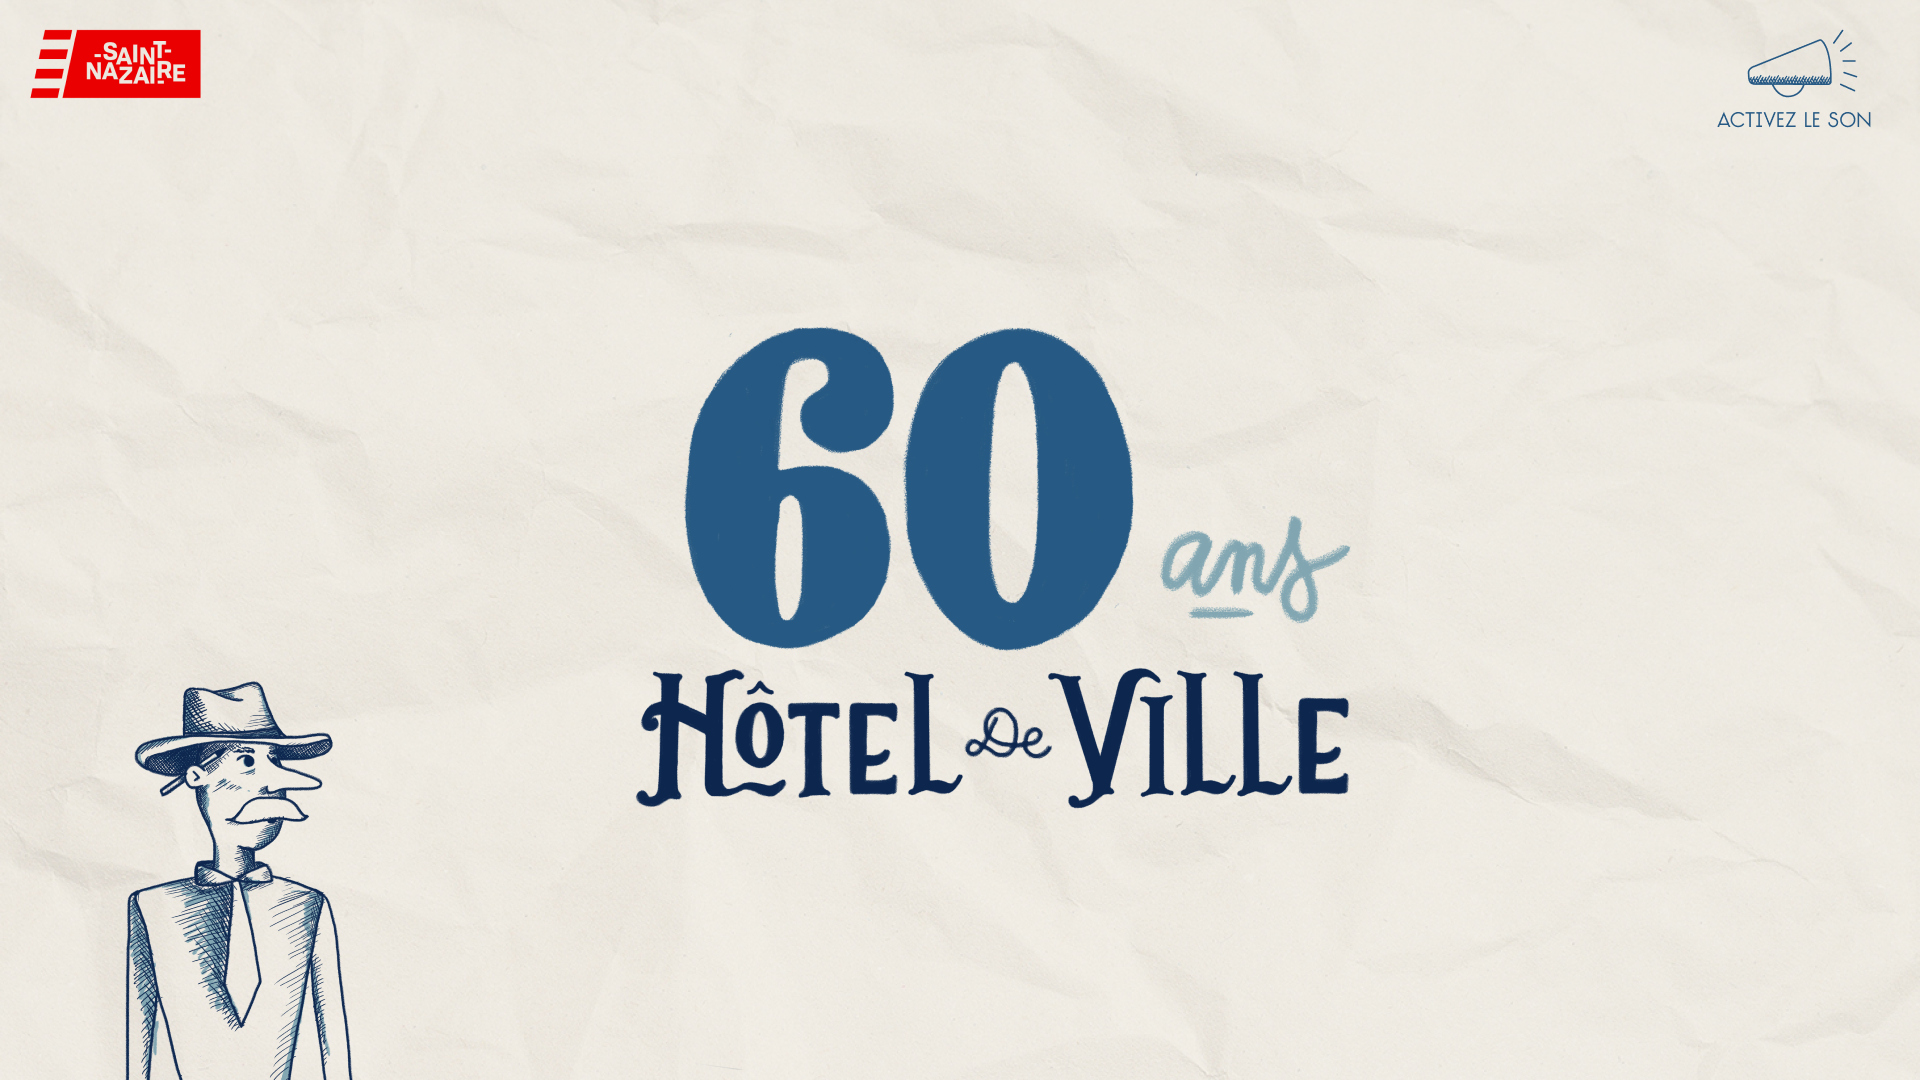
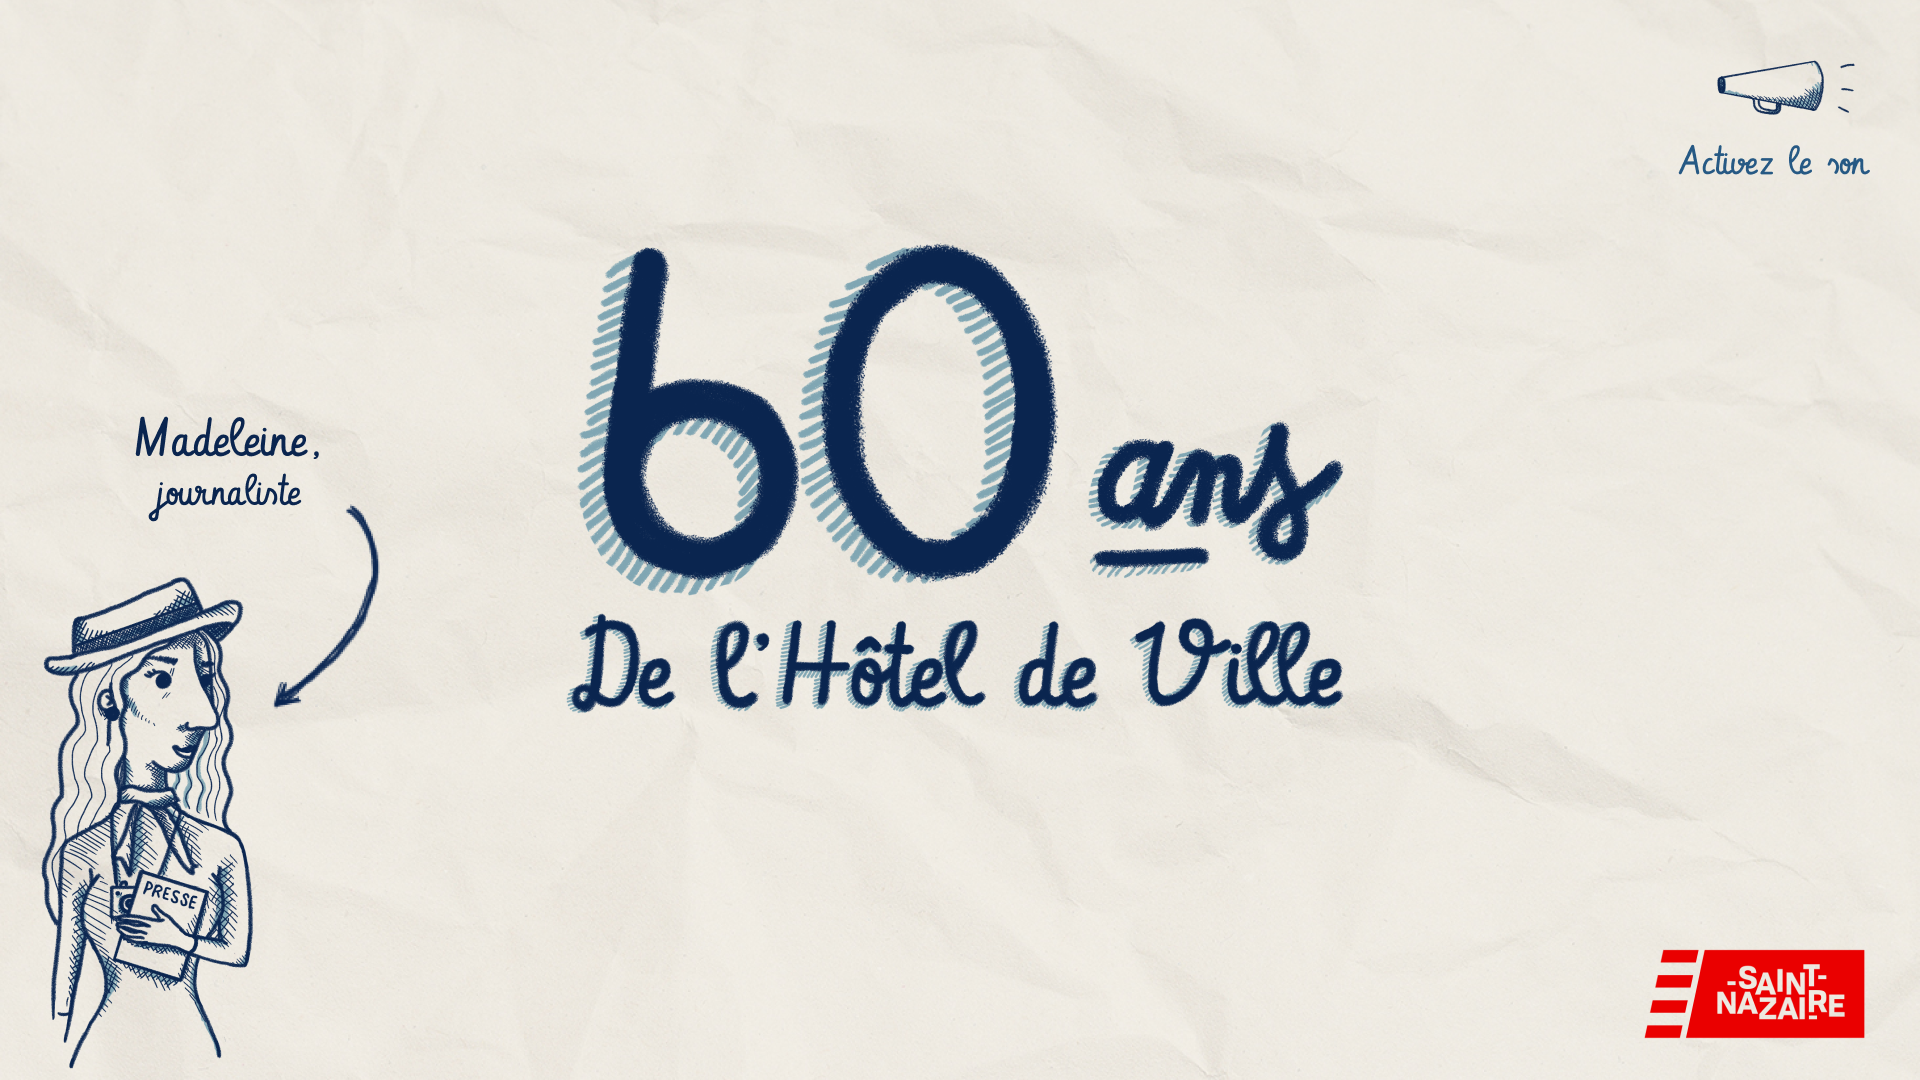
[FIX] fin ellipse et changement accueil

diff --git a/ville-saint-nazaire/public/html/slide3.html b/ville-saint-nazaire/public/html/slide3.html
@@ -8,34 +8,25 @@
 
 <form name="form">
     <label for="1905">1905</label>
-    <input id="bouton1905" type="radio"  value="1905" checked/>
     <img id="imageBouton1905" src="img/boutonActif.svg" alt="année sélectionnée" name="myRadios"  value="1905">
 
     <label for="1924">1924</label>
-    <input id="bouton1924" type="radio"  value="1924" />
     <img id="imageBouton1924" src="img/boutonInactif.svg" alt="année non sélectionnée" name="myRadios"  value="1924">
 
     <label for="1944">1944</label>
-    <input id="bouton1944" type="radio"  value="1944" />
     <img id="imageBouton1944" src="img/boutonInactif.svg" alt="année non sélectionnée" name="myRadios"  value="1944">
 
     <label for="1952">1952</label>
-    <input id="bouton1952" type="radio"  value="1952" />
     <img id="imageBouton1952" src="img/boutonInactif.svg" alt="année non sélectionnée" name="myRadios"  value="1952">
 
     <label for="1957">1957</label>
-    <input id="bouton1957" type="radio"  value="1957" />
     <img id="imageBouton1957" src="img/boutonInactif.svg" alt="année non sélectionnée" name="myRadios"  value="1957">
     
 </form>
-
+<p id="premierTexte">Le Début du XXème siècle : une dynamisation de la ville</p>
+<p id="deuxiemeTexte">Saint-Nazaire mettra 15 ans à se remettre sur pied...</p>
 <!-- si la 5e est active-->
 <div id="next4">
     <img id="next4-img" src="img/fleche.png">
     <p id="next4-texte">Suite des recherches</p>
 </div>
-
-changer les textes en textes
-changer la police d'écriture
-diminuer la taille du form?
-update la page d'accueil (nouveau fond, nouveau bouton)

diff --git a/ville-saint-nazaire/public/css/style3.css b/ville-saint-nazaire/public/css/style3.css
@@ -23,22 +23,12 @@
     opacity:1;
 }
 
-/* HIDE RADIO */
-[type=radio] { 
-  position: absolute;
-  opacity: 0;
-}
-
-/* IMAGE STYLES */
-[type=radio] + img {
-  cursor: pointer;
-}
-
 form{
     position : relative;
     z-index: 10;
     right:0%;
-    width:12%;
+    width:15%;
+    height:50%;
     float:right;
 }
 
@@ -48,33 +38,58 @@ form>label{
     color: #265984;
 }
 
-.next4{
+#next4{
     visibility:hidden;
     cursor:pointer;
 }
 #next4-img{
     position: absolute;
     width: 4%;
-    left : 76%;
+    left : 70%;
     top : 90%;
     visibility:hidden;
 }
 #next4-texte{
     position: absolute;
-    left : 82%;
+    left : 76%;
     top : 91%;
     font-family: Vibur;
     color: #92C2D2;
     visibility:hidden;
 }
 
+p {
+    font-family: Vibur;
+    font-style: normal;
+    font-weight: normal;
+    font-size: 5.5%;
+    line-height: 130%;
+
+    height:5%;
+    width:66%;
+
+    color: #265984;
+}
+
+#premierTexte{
+    position: absolute;
+    top:3.4%;
+    left:2.5%;
+}
+#deuxiemeTexte{
+    position: absolute;
+    top:89%;
+    left:2.5%;
+    opacity: 0;
+}
+
 @media screen and (max-aspect-ratio: 16/9){
     label, #next4-texte{
-        font-size: 2vw;
+        font-size: 3vw;
     }
 }
 @media screen and (min-aspect-ratio: 16/9){
-    label, #next4-texte{
-        font-size: 3.4vh;
+    p, label, #next4-texte{
+        font-size: 5vh;
     }
 }

diff --git a/ville-saint-nazaire/public/js/slide3.js b/ville-saint-nazaire/public/js/slide3.js
@@ -19,6 +19,15 @@ function fadeIn(id){
   //l'image
   let image = document.getElementById("carte" + id);
   image.style.opacity = "1";
+  var texte1=document.getElementById("premierTexte");
+  var texte2=document.getElementById("deuxiemeTexte");
+  if(id<1944){
+    texte1.style.opacity = "1";
+    texte2.style.opacity = "0";
+  } else {
+    texte1.style.opacity = "0";
+    texte2.style.opacity = "1";
+  }
   if (id=="1957"){
     var suiteTexte = document.getElementById("next4-texte");
     var suiteImage = document.getElementById("next4-img");
@@ -40,10 +49,6 @@ function fadeOut(id){
 
 let initSlide3 = function(){
   initForm();
-  /*d3.select('#next4').on('click', function(){
-    moveRight();
-    initSlide4();
-  });*/
   d3.select('#next4').on('click', function(){
     moveRight();
     initSlide4();
@@ -51,7 +56,7 @@ let initSlide3 = function(){
 
   d3.select('#next4').on('mouseover', function(){
       anime({
-          targets: '#next4-texte, #next4-img',
+          targets: '##next4-img',
           scale: 1.2
       });
   });
@@ -59,7 +64,7 @@ let initSlide3 = function(){
   
   d3.select('#next4').on('mouseout', function(){
       anime({
-          targets: '#next4-texte, #next4-img',
+          targets: '#next4-img',
           scale: 1
       });
   });

diff --git a/ville-saint-nazaire/public/index.html b/ville-saint-nazaire/public/index.html
@@ -73,7 +73,7 @@
           <div class="panel-wrap animate--none">
             <div class="panel" data-x-pos="0"  data-y-pos="0">
               <section id="page-1">
-                <button id="next2">Découvrir</button>
+                <img id="next2" src="img/boutonAccueil.png" alt="bouton accueil">
               </section>
             </div>
             <div class="panel" data-x-pos="-1"  data-y-pos="0">

diff --git a/ville-saint-nazaire/public/css/style1.css b/ville-saint-nazaire/public/css/style1.css
@@ -1,12 +1,9 @@
 #next2{
   background-color: inherit;
   position:absolute;
-  bottom:8%;
-  padding: 0.5% 1%;
-  border-style: solid;
-  border-width: 1px;
-  border-color: #265983;
-  color: #265983;
+  bottom: 8%;
+  left: 33%;
+  width: 34%;
 }
 #page-1{
   background-image: url('../img/background1.png');
